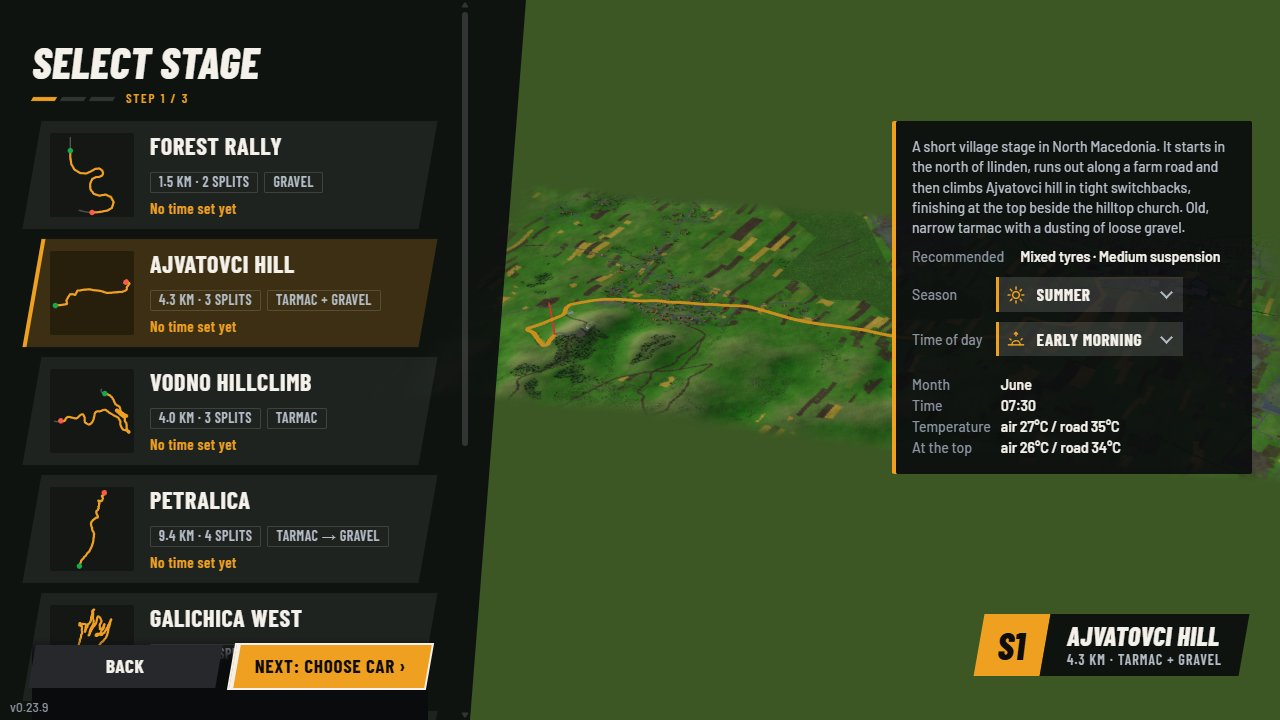
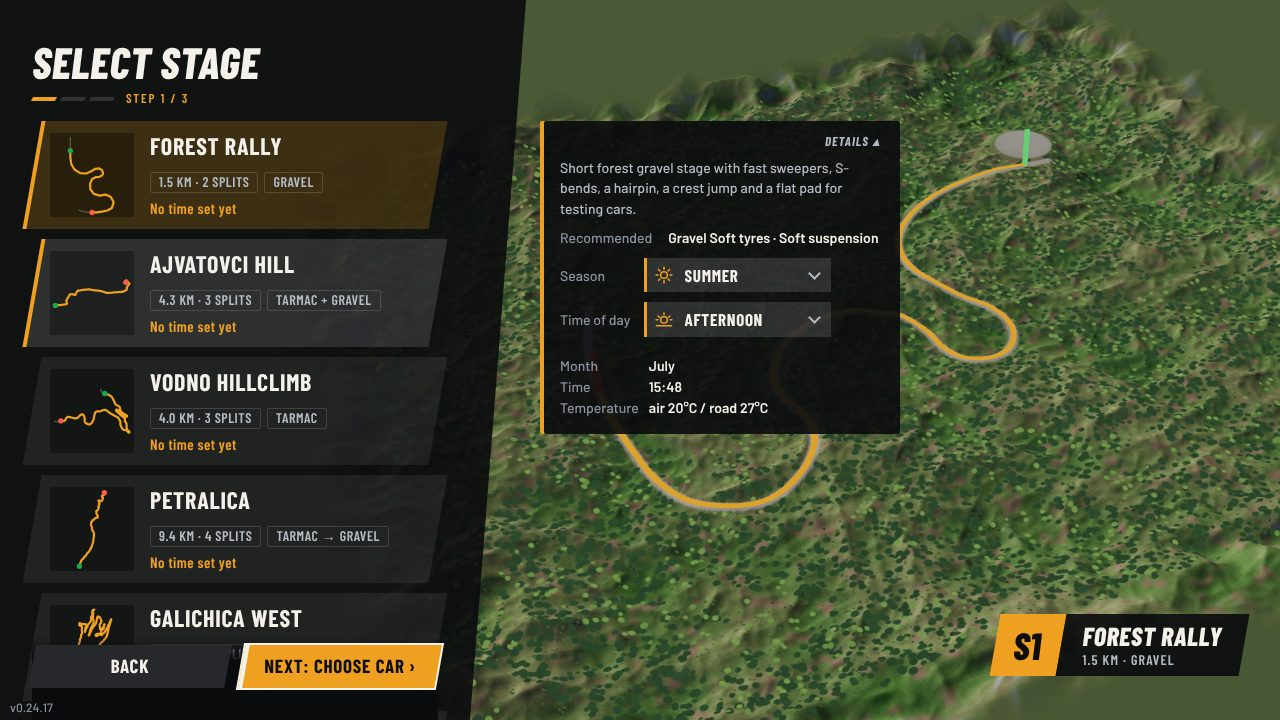
Rally menu: detail card beside the list, minimizable (#155)
- detail card docked beside the list on stage times, select stage, select car
- Details tab minimizes the card to its description

diff --git a/src/games/rally/game/menu.css b/src/games/rally/game/menu.css
@@ -930,12 +930,13 @@ html.touch .menu-btn.big kbd {
   }
 }
 
-/* Select stage / Select car: the description card sits right of the list (wide screens). */
+/* Select stage / Select car / Stage times: the detail card docks beside the list, left aligned to the slab (wide
+   screens); the map / car stays full size behind it and the card can be minimized. */
 .menu-side-card {
   position: absolute;
   z-index: 41;
   top: 40px;
-  right: 28px;
+  left: 540px;
   width: min(360px, calc(100% - 540px));
   max-height: calc(100% - 64px);
   box-sizing: border-box;
@@ -964,6 +965,51 @@ html.touch .menu-btn.big kbd {
     bottom: 112px;
     width: auto;
     max-height: 40%;
+  }
+}
+/* Minimize: the card shrinks to its description (stage / car), so the map / car behind it shows more. */
+.menu-card-min {
+  display: block;
+  margin: -8px -12px 4px auto;
+  padding: 6px 12px;
+  border: 0;
+  background: transparent;
+  color: var(--ui-text-2);
+  font: italic 700 13px/1 var(--ui-font-display);
+  letter-spacing: 0.08em;
+  text-transform: uppercase;
+  cursor: pointer;
+}
+.menu-card-min::after {
+  content: ' ▴';
+}
+.menu-card-min:hover,
+.menu-card-min:focus-visible {
+  color: var(--ui-text);
+}
+.menu-card-min:focus-visible {
+  outline: 2px solid var(--ui-accent);
+  outline-offset: -2px;
+}
+.menu-side-card .menu-card-min + p {
+  margin-top: 0;
+}
+.menu-side-card.min > :not(.menu-card-min, p) {
+  display: none;
+}
+.menu-side-card.min p:last-child {
+  margin-bottom: 0;
+}
+.menu-side-card.min .menu-card-min {
+  color: var(--ui-text);
+}
+.menu-side-card.min .menu-card-min::after {
+  content: ' ▾';
+}
+@media (max-width: 799px) {
+  /* Phones: the card sits over the view above the buttons and stays open. */
+  .menu-card-min {
+    display: none;
   }
 }
 /* Select stage: Season and Time of day dropdowns left, month / time / temperature right (wraps below on narrow cards). */
@@ -1049,11 +1095,12 @@ html.touch .menu-btn.big kbd {
   outline-offset: 1px;
 }
 
-/* Stage times: the saved runs float over the map view, right of the stage list. */
+/* Stage times: the saved runs dock beside the stage list, over the map view (same place as the description card). */
 .menu-times-card {
   position: absolute;
+  z-index: 41;
   top: 40px;
-  right: 28px;
+  left: 540px;
   max-height: calc(100% - 64px);
   width: min(560px, calc(100% - 540px));
   box-sizing: border-box;
@@ -1071,7 +1118,7 @@ html.touch .menu-btn.big kbd {
   letter-spacing: 0.01em;
   text-transform: uppercase;
 }
-@media (max-width: 760px) {
+@media (max-width: 799px) {
   .menu-times-card {
     top: auto !important;
     left: 16px;

diff --git a/src/games/rally/game/menu.ts b/src/games/rally/game/menu.ts
@@ -317,6 +317,8 @@ class MainMenu {
   private carIndex: number;
   /** Drivetrain filter on the car screen (not remembered: the menu opens on All). */
   private driveFilter: DriveFilter = 'all';
+  /** The detail card (`.menu-side-card` / `.menu-times-card`) is minimized to its tab, kept while moving between screens. */
+  private cardMin = false;
   private livery: number;
   /** Setup screen choices for one map + car (anything else resets to the stage recommendation, nothing is saved). */
   private pick: {
@@ -871,12 +873,13 @@ class MainMenu {
   }
 
   /**
-   * Description card of Select stage / Select car (`.menu-side-card`): it floats over the map: right of the list with its top
+   * Description card of Select stage / Select car (`.menu-side-card`): it docks beside the list (left aligned, minimizable, the map / car stays full size behind it) with its top
    * level with `align` (the header height depends on the font) on screens >= `SIDE_CARD_MIN_WIDTH` px wide, above the
    * buttons on phones. Always returns true.
    */
   private sideCard(card: HTMLElement, align: HTMLElement): boolean {
     card.classList.add('menu-side-card');
+    card.prepend(this.minimizer(card, 'Details'));
     this.root.append(card);
     // Phones: the card covers the map / car above the buttons (CSS), no alignment needed.
     if (window.innerWidth < SIDE_CARD_MIN_WIDTH) return true;
@@ -886,6 +889,24 @@ class MainMenu {
     const reserve = window.innerHeight < SHORT_SCREEN_HEIGHT ? 24 : 120;
     card.style.maxHeight = `calc(100% - ${top + reserve}px)`;
     return true;
+  }
+
+  /** Tab at the top of a detail card that minimizes it to just the tab (and back), so the map / car behind it shows in full. */
+  private minimizer(card: HTMLElement, label: string): HTMLButtonElement {
+    const b = document.createElement('button');
+    b.className = 'menu-card-min';
+    b.textContent = label;
+    const apply = () => {
+      card.classList.toggle('min', this.cardMin);
+      b.setAttribute('aria-expanded', String(!this.cardMin));
+      b.title = this.cardMin ? 'Show details' : 'Minimize details';
+    };
+    apply();
+    b.addEventListener('click', () => {
+      this.cardMin = !this.cardMin;
+      apply();
+    });
+    return b;
   }
 
   /** Top of `el` inside the menu as if the panel were not scrolled (it keeps its scroll while the screen is rebuilt). */

diff --git a/src/games/rally/DETAILS.md b/src/games/rally/DETAILS.md
@@ -67,7 +67,7 @@ Console: `__rally.benchmark(240)` (avg / worst ms per frame, works with the tab 
   there), starts on the first click / key (autoplay rule), shows "now playing" bottom right, pauses with the tab. Main-menu
   Options slider `musicVolume` (0 = off, 100% plays at half of full volume); `?mute=1` silences it. Add a track = file + `MENU_TRACKS` row (+ `THIRD-PARTY.md`).
 - **Pause** (`Esc`): resume, restart, free-drive pad <-> stage, options, main menu.
-- **Stage times** (welcome menu): stage list on the left (↑↓), the selected stage's saved runs over its map view on the right; current versions first, older ones dimmed below.
+- **Stage times** (welcome menu): stage list on the left (↑↓), the selected stage's saved runs over its map view in a card docked beside the list (`.menu-times-card`); current versions first, older ones dimmed below.
 - **About:** every external source per map (`MapDef.sources` + its stages' `StageDef.sources`) and car (`CarDef.sources`), menu music credits, plus `version` from `game.json`.
 
 **On a stage** (`game/stage.ts`):
@@ -571,7 +571,7 @@ run 2-3x, so compare old / new **in the same page, interleaved** over several ro
   sits unlabelled at 0%. The car's GLB starts downloading before the map data (`preloadCarModel`).
 - Car select: a "Loading model" spinner (`Showroom.loadCue`) shows while a car's GLB downloads (the car stays hidden until then).
 - Car select: All / AWD / RWD / FWD filter row on top (`driveGroup` from the car's `drivetrain.frontSplit`, not remembered); up from the first car or the pad focuses it, left / right switch.
-- Car select (screens >= 800 px wide): the description / stats / livery sit in a wide card right of the list (`.menu-side-card`, `MainMenu.sideCard`, shared with Select stage); the showroom car keeps its shared place and size (`CAR_SHIFT`, `CAR_DIST_SCALE`) and may run behind the card. Narrower screens (< 800 px) lay the same card over the map above the buttons.
+- Car select (screens >= 800 px wide): the description / stats / livery sit in a card docked beside the list (`.menu-side-card`, `MainMenu.sideCard`, shared with Select stage; Stage times uses the same placement). The showroom car keeps its shared place and size (`CAR_SHIFT`, `CAR_DIST_SCALE`) and may run behind the card; its **Details** tab (`MainMenu.minimizer`, class `min` on the card, shared with Select stage) minimizes the card to its description (the Stage times card has no tab). Narrower screens (< 800 px) lay the same card over the map above the buttons.
 - Select stage: the stage's description (`StageDef.description`: what the drive is like for the player, no data sources or build details), recommended set-up and a **Time of day** dropdown sit in the same card (phones: under the selected stage), with a **Season** dropdown (spring / summer / autumn, above the time) and the **Month** it is driven in in front. Left / right (or the pad) step the time; the list cards keep the route, tags and best time.
 - Time of day (`game/time-of-day.ts`, the one config): early morning 07:00, mid day 12:00, afternoon 15:30, evening 17:30, night 01:00 (dropdown order) - each is a `?tod=<hours>` hour, so any stage of a map with `environment.timeOfDay` takes any of them. A stage's own default hour stays exact on its nearest slot (Jackie opens on "Early morning · 08:00") and a stage can move a slot (`StageDef.slotHours`: Vodno's early morning is 08:00); a pick applies to every stage until changed and is not remembered; the menu mirrors it into the URL (`tod=`), a stage without `timeOfDay` shows no dropdown. Under it the card shows the clock time and the air / road temperature at that hour (`StageDef.temps`, the numbers the tyres run with, see PHYSICS.md). Times are saved per stage, not per time of day.
 - Season (`season.ts`): spring / summer / autumn, the one the stage opens in (`StageDef.season`, else the map's `environment.season`, default summer; `stageSeason`) or `?season=`; the stage screen's pick is mirrored into the URL (`season=`, none = the stage's own) and shown on every stage including the test map. It sets the tree leaf colours (`trees/seasons.ts`), the ground (`environment.groundTints`, below) and the stage's air / road temperatures (`StageDef.temps`, "Temperatures" below). The stage card lists the **Month** the stage is driven in that season (`environment.months`, default April / July / October: e.g. Ajvatovci spring April, Jackie spring May).

diff --git a/src/games/rally/STYLEGUIDE.md b/src/games/rally/STYLEGUIDE.md
@@ -12,8 +12,10 @@ and `hud.css` use `var(--ui-*)` only, so a change of look starts there.
 
 ## Principles
 
-- **The 3D view is the hero.** No card over the middle of the screen on the stage, car and setup screens: the spec card and
-  the setup part window dock to the right edge and are narrow, the menu slab stays on the left.
+- **The 3D view is the hero.** No card over the middle of the screen on the stage, car and setup screens: the spec card sits
+  right beside the menu list (left aligned, never far across the screen) and is narrow, the setup part window docks to the
+  right edge, the menu slab stays on the left. The map or car keeps its full size and place; the card may cover a corner of
+  it, so it has a **Details** tab that minimizes it to its one description (what this stage or car is).
 - **One primary action per screen**, a solid amber button. Everything else is a raised glass row.
 - **Calm menus, loud moments.** Menus stay flat and dark; the energy goes into the start, the splits and the results.
 - **Text sits on a plate.** Every HUD text group has a dark glass plate, never bare text over the sky.
@@ -64,6 +66,13 @@ ratings from the `--ui-rate-*` set (its orange is not the accent). "Recommended"
   primary buttons only, so the second text line stays readable). All cards in a list have one height: tags stay on one row, long text truncates.
 - **Segmented control** (`.menu-seg`): slanted chips, the active one amber.
 - **Step pips**: three slanted bars (Stage, Car, Go) under the screen title.
+- **Spec card** (`.menu-side-card`, `.menu-times-card`): the glass detail card of Select stage, Select car and Stage times,
+  docked at the slab's edge with the amber left bar. The three screens share one placement, so a new menu screen with a
+  detail card reuses the class. The map or car behind it never resizes or moves for it. Phones lay the card over the view
+  above the buttons.
+- **Details tab** (`.menu-card-min`): top right of the spec card on wide screens; it shrinks the card to its description
+  (what this stage or car is, never hidden) and hides the rest (stats, dropdowns, buttons). Stage times has no tab: the table is the
+  point of that screen. The choice is kept while moving between the menu screens. Phones keep the card open.
 - **Stage plate** (`.menu-plate`): bottom right on the stage, car and setup screens and while loading: `S<n>` on amber (the
   stage's place on its map, so only a map with several stages goes past S1), then name, length and surface on glass.
 - **Dropdown** (`.menu-select`): native `<select>` (keyboard and phone friendly) with the picked option's amber line icon in
